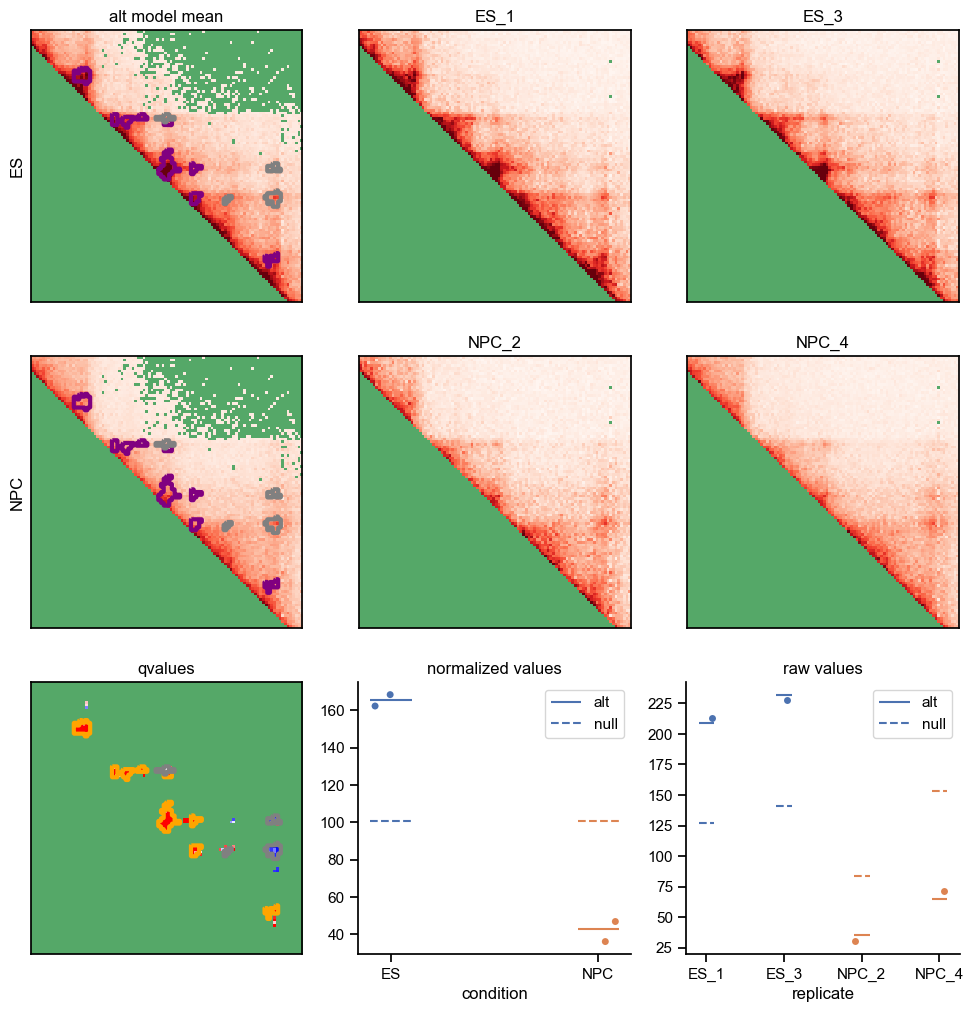
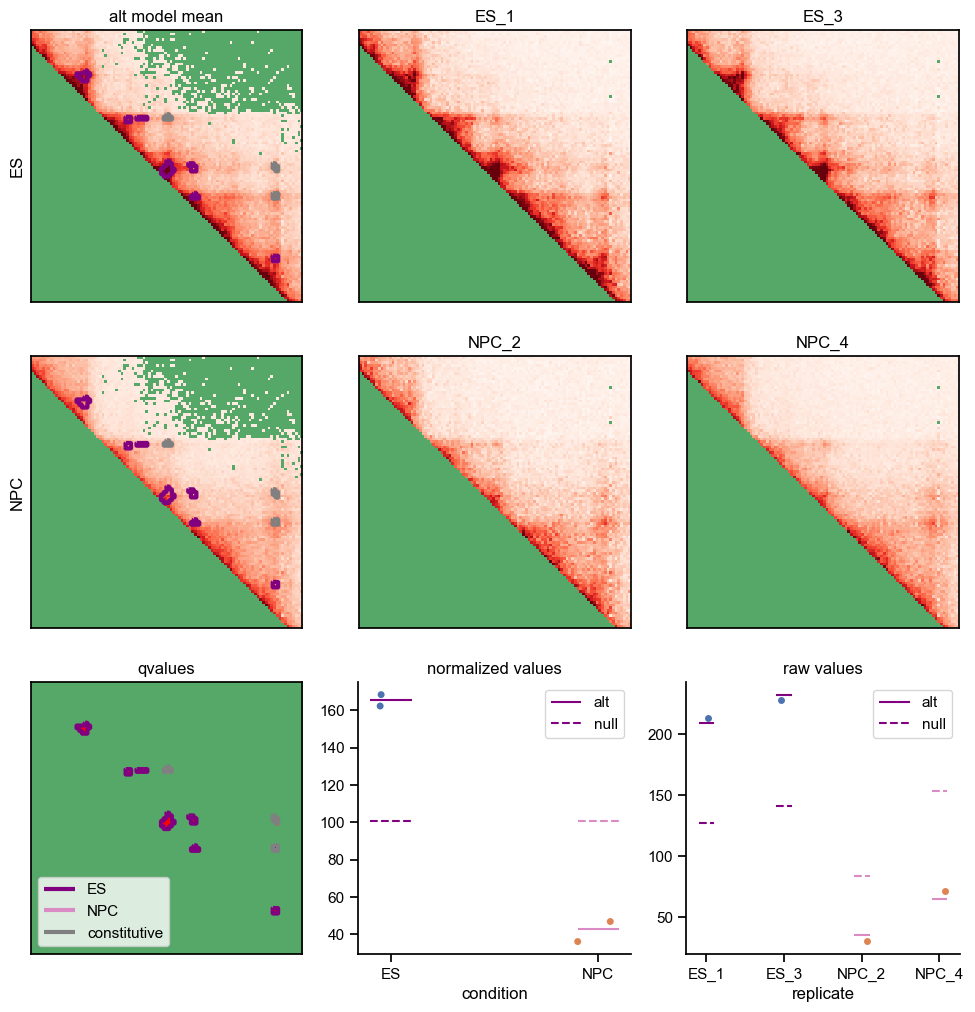
integrated classification with grid
reworked color cycle in grid

changed default cluster size threshold to 4

diff --git a/fast3defdr/plotting/grid.py b/fast3defdr/plotting/grid.py
@@ -8,6 +8,7 @@ from lib5c.plotters.colormaps import get_colormap
 from fast3defdr.matrices import select_matrix, dilate
 from fast3defdr.thresholding import threshold_and_cluster, size_filter
 from fast3defdr.clusters import clusters_to_coo
+from fast3defdr.classification import classify
 
 
 @plotter
@@ -81,6 +82,9 @@ def plot_grid(i, j, w, row, col, raw, scaled, mu_hat_alt, mu_hat_null, qvalues,
     n = max(row.max(), col.max())
     mu_hat_alt = np.dot(mu_hat_alt, design.values.T)
 
+    # set the color cycle over conditions
+    cc = ['purple', 'C6', 'C9', 'C5', 'C1', 'C8']
+
     # plot
     fig, ax = plt.subplots(design.shape[1] + 1, max_reps + 1,
                            figsize=(design.shape[1] * 6, max_reps * 6))
@@ -121,10 +125,10 @@ def plot_grid(i, j, w, row, col, raw, scaled, mu_hat_alt, mu_hat_null, qvalues,
     for c in range(design.shape[1]):
         ax[-1, 1].hlines(
             mu_hat_alt[idx, np.where(design.values[:, c])[0][0]],
-            c - 0.1, c + 0.1, color='C%i' % c,
+            c - 0.1, c + 0.1, color=cc[c % len(cc)],
             label='alt' if c == 0 else None)
         ax[-1, 1].hlines(
-            mu_hat_null[idx], c - 0.1, c + 0.1, color='C%i' % c,
+            mu_hat_null[idx], c - 0.1, c + 0.1, color=cc[c % len(cc)],
             linestyles='--', label='null' if c == 0 else None)
     ax[-1, 1].set_xticklabels(design.columns.tolist())
     ax[-1, 1].set_title('normalized values')
@@ -139,11 +143,11 @@ def plot_grid(i, j, w, row, col, raw, scaled, mu_hat_alt, mu_hat_null, qvalues,
     for r in range(design.shape[0]):
         ax[-1, 2].hlines(
             mu_hat_alt[idx, r] * f[idx, r], r - 0.1, r + 0.1,
-            color='C%i' % np.where(design)[1][r],
+            color=cc[np.where(design)[1][r] % len(cc)],
             label='alt' if r == 0 else None)
         ax[-1, 2].hlines(
             mu_hat_null[idx] * f[idx, r], r - 0.1, r + 0.1,
-            color='C%i' % np.where(design)[1][r], linestyles='--',
+            color=cc[np.where(design)[1][r] % len(cc)], linestyles='--',
             label='null' if r == 0 else None)
     ax[-1, 2].set_xticklabels(design.index.tolist())
     ax[-1, 2].set_title('raw values')
@@ -161,30 +165,49 @@ def plot_grid(i, j, w, row, col, raw, scaled, mu_hat_alt, mu_hat_null, qvalues,
                 qvalues, row[disp_idx][loop_idx], col[disp_idx][loop_idx], fdr)
         if cluster_size not in clusters[fdr]:
             clusters[fdr][cluster_size] = dict(zip(
-                ['sig', 'insig'],
+                range(design.shape[1]),
                 map(lambda x: clusters_to_coo(size_filter(x, cluster_size),
                                               (n, n)).tocsr()[rs, cs].toarray(),
-                    clusters[fdr]['base'])
+                    classify(
+                        row[disp_idx][loop_idx],
+                        col[disp_idx][loop_idx],
+                        mu_hat_alt[loop_idx],
+                        size_filter(clusters[fdr]['base'][0], cluster_size)
+                    ))
             ))
+            clusters[fdr][cluster_size]['insig'] = clusters_to_coo(
+                size_filter(clusters[fdr]['base'][1], cluster_size),
+                (n, n)).tocsr()[rs, cs].toarray()
         if contours:
             for contour in contours:
                 for coll in contour.collections:
                     coll.remove()
             del contours[:]
-        contours.append(ax[-1, 0].contour(
-            dilate(clusters[fdr][cluster_size]['sig'], 2),
-            [0.5], colors='orange', linewidths=3, extent=extent))
-        contours.append(ax[-1, 0].contour(
-            dilate(clusters[fdr][cluster_size]['insig'], 2),
-            [0.5], colors='gray', linewidths=3, extent=extent))
         for c in range(design.shape[1]):
-            contours.append(ax[c, 0].contour(
-                dilate(clusters[fdr][cluster_size]['sig'], 2),
-                [0.5], colors='purple', linewidths=3, extent=extent))
-            contours.append(ax[c, 0].contour(
+            contour = ax[-1, 0].contour(
+                dilate(clusters[fdr][cluster_size][c], 2),
+                [0.5], colors=cc[c % len(cc)], linewidths=3, extent=extent)
+            contour.collections[0].set_label(design.columns[c])
+            contours.append(contour)
+        contour = ax[-1, 0].contour(
+            dilate(clusters[fdr][cluster_size]['insig'], 2),
+            [0.5], colors='gray', linewidths=3, extent=extent)
+        contour.collections[0].set_label('constitutive')
+        contours.append(contour)
+        for cond_idx in range(design.shape[1]):
+            for c in range(design.shape[1]):
+                contour = ax[cond_idx, 0].contour(
+                    dilate(clusters[fdr][cluster_size][c], 2),
+                    [0.5], colors=cc[c % len(cc)], linewidths=3, extent=extent)
+                contour.collections[0].set_label(design.columns[c])
+                contours.append(contour)
+            contour = ax[cond_idx, 0].contour(
                 dilate(clusters[fdr][cluster_size]['insig'], 2),
-                [0.5], colors='gray', linewidths=3, extent=extent))
+                [0.5], colors='gray', linewidths=3, extent=extent)
+            contour.collections[0].set_label('constitutive')
+            contours.append(contour)
 
     outline_clusters(fdr, cluster_size)
+    ax[-1, 0].legend(loc='lower left')
 
     return ax, outline_clusters

diff --git a/fast3defdr/analysis.py b/fast3defdr/analysis.py
@@ -363,7 +363,7 @@ class Fast3DeFDR(object):
                            'qvalues', chrom)
             offset += len(pvalues[i])
 
-    def threshold_chrom(self, chrom, fdr=0.05, cluster_size=5):
+    def threshold_chrom(self, chrom, fdr=0.05, cluster_size=4):
         """
         Thresholds and clusters significantly differential pixels on one
         chromosome.
@@ -407,7 +407,7 @@ class Fast3DeFDR(object):
                               '%s/insig_%g_%i_%s.json' %
                               (self.outdir, f, s, chrom))
 
-    def threshold_all(self, fdr=0.05, cluster_size=5):
+    def threshold_all(self, fdr=0.05, cluster_size=4):
         """
         Thresholds and clusters significantly differential pixels on all
         chromosomes in series.
@@ -425,7 +425,7 @@ class Fast3DeFDR(object):
         for chrom in self.chroms:
             self.threshold_chrom(chrom, fdr=fdr, cluster_size=cluster_size)
 
-    def classify_sig_pixels(self, chrom, fdr=0.05, cluster_size=5):
+    def classify_sig_pixels(self, chrom, fdr=0.05, cluster_size=4):
         """
         Classifies significantly differential pixels according to which
         condition they are strongest in.
@@ -612,7 +612,7 @@ class Fast3DeFDR(object):
         return plot_pvalue_histogram(
             np.concatenate(qvalues), xlabel='qvalue', **kwargs)
 
-    def plot_grid(self, chrom, i, j, w, vmax=100, fdr=0.05, cluster_size=5,
+    def plot_grid(self, chrom, i, j, w, vmax=100, fdr=0.05, cluster_size=4,
                   fdr_vmid=0.05, despine=False, **kwargs):
         """
         Plots a combination visualization grid focusing on a specific pixel on a

diff --git a/fast3defdr/__init__.py b/fast3defdr/__init__.py
@@ -1,5 +1,5 @@
+from fast3defdr.analysis import Fast3DeFDR
+
 from ._version import get_versions
 __version__ = get_versions()['version']
 del get_versions
-
-from fast3defdr.analysis import Fast3DeFDR
